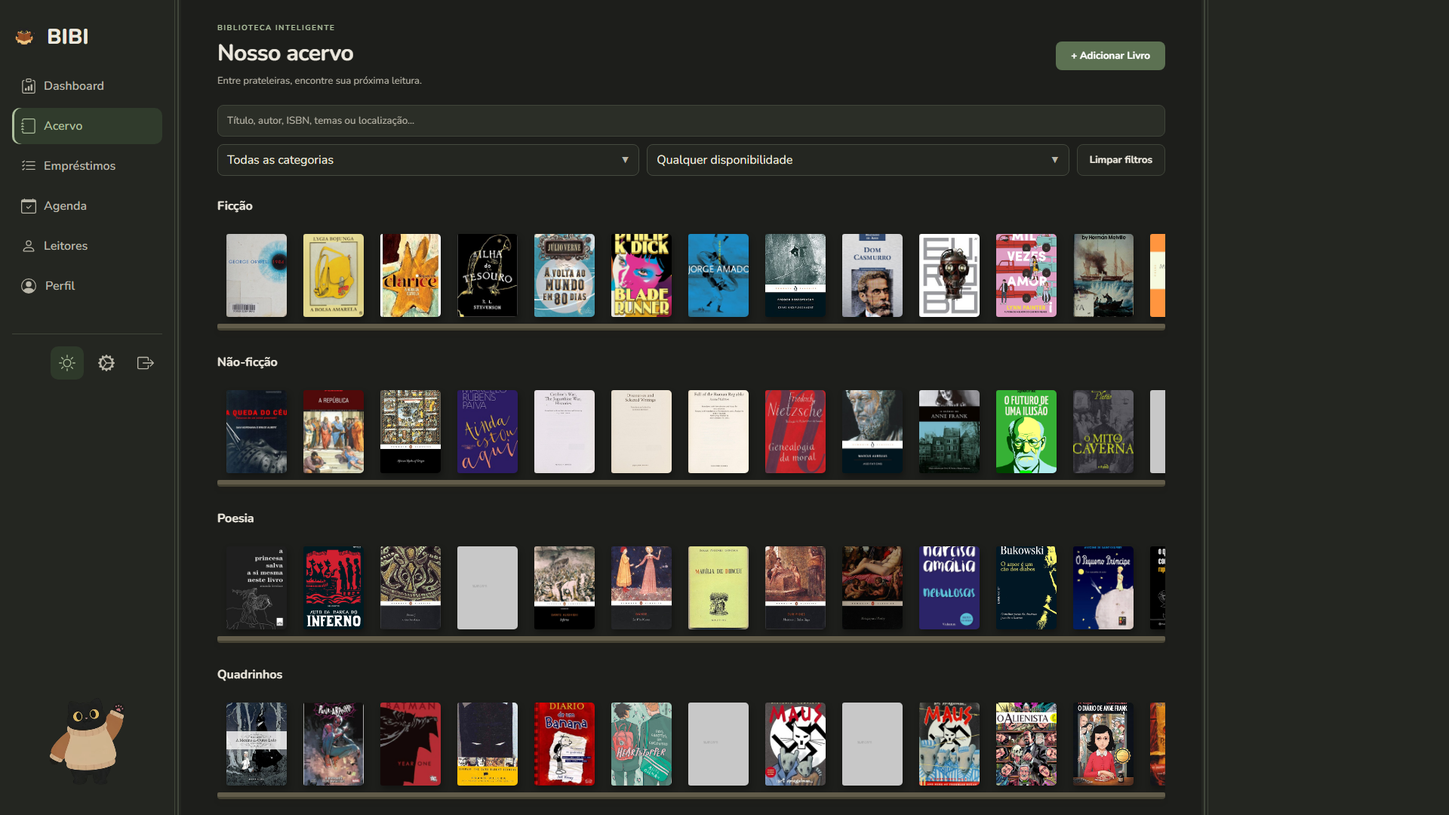
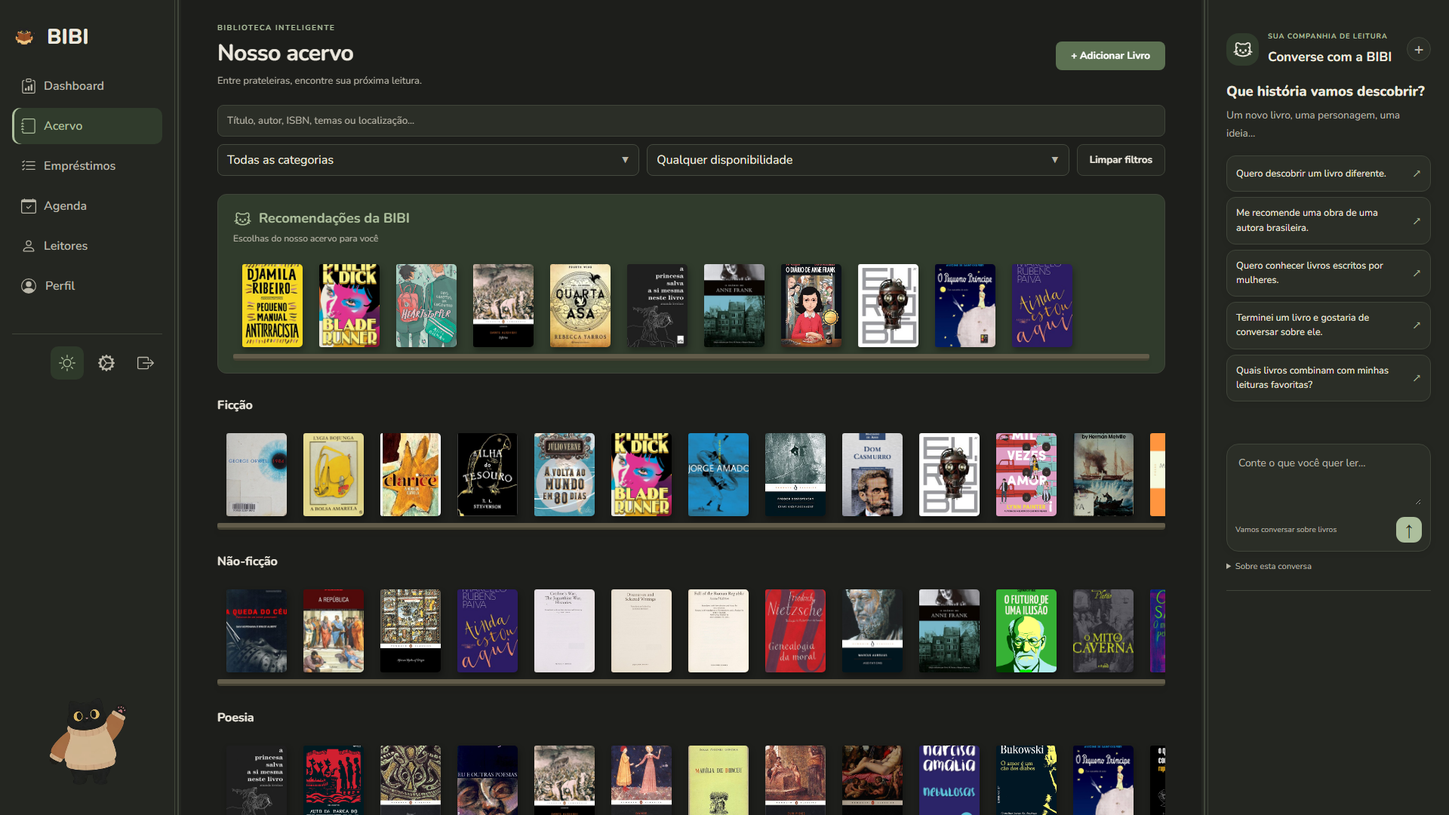
Completa capas e demonstra IA real na distribuicao 1.1.1

diff --git a/tests/browser_distribuicao.py b/tests/browser_distribuicao.py
@@ -26,6 +26,7 @@ from playwright.sync_api import sync_playwright, expect
 
 
 def main():
+    expect.set_options(timeout=60000)
     if os.getenv('BIBI_BROWSER_TRACE'):
         import faulthandler
         faulthandler.dump_traceback_later(45,repeat=True)
@@ -61,6 +62,13 @@ def main():
         api(admin,'/api/acesso/csrf')
         api(admin,'/api/acesso/configurar','POST',dict(biblioteca='Biblioteca de demonstração',nome='Bibliotecária de demonstração',email='admin@example.test',senha='senha forte de teste',confirmacao='senha forte de teste',aceite=True,termos_versao=VERSAO))
         api(admin,'/api/minha-conta/avatar','PUT',default())
+        real_ai=bool(os.getenv('BIBI_SCREENSHOT_OPENROUTER_KEY'))
+        if real_ai:
+            api(admin,'/api/ia/servicos/openrouter','PUT',dict(chave=os.environ['BIBI_SCREENSHOT_OPENROUTER_KEY'],senha_atual='senha forte de teste',habilitado=True,custos_autorizados=False,privacidade_revisada=True,limite_diario=30))
+            api(admin,'/api/ia/servicos/openrouter/modelos','POST',{})
+            result=api(admin,'/api/ia/servicos/openrouter/testar','POST',{})
+            print('Verificação real OpenRouter:',result,flush=True)
+            api(admin,'/api/ia/servicos','PUT',dict(ativa=True,senha_atual='senha forte de teste',max_tokens=384,por_dia=30))
         books=api(admin,'/api/livros')
         readers=[]
         for i in range(8):
@@ -110,6 +118,8 @@ def main():
                     return page
                 a=page_for(admin);s=page_for(student)
                 def capture(page,path):
+                    page.wait_for_function("Array.from(document.querySelectorAll('.book,.capa-mini,#det-capa')).filter(element=>element.getClientRects().length).every(element=>!getComputedStyle(element).backgroundImage.includes('placeholder'))",timeout=90000)
+                    page.wait_for_function("Array.from(document.images).filter(image=>image.getClientRects().length).every(image=>image.complete&&image.naturalWidth>0)",timeout=90000)
                     # Captura nativa do Chromium via Playwright/CDP. Evita o
                     # bloqueio de screenshot causado por páginas com mídia ativa.
                     session=page.context.new_cdp_session(page)
@@ -127,7 +137,7 @@ def main():
                     if path.startswith('/app') and '#' not in path:
                         page.wait_for_timeout(6000 if args.catalogo_local else 2500)
                     if path.startswith('/app') and '#' not in path:
-                        page.wait_for_function("limit=>Array.from(document.querySelectorAll('.book')).filter(book=>getComputedStyle(book).backgroundImage.includes('placeholder')).length<=limit",arg=7 if args.catalogo_local else 0,timeout=90000)
+                        page.wait_for_function("Array.from(document.querySelectorAll('.book')).every(book=>!getComputedStyle(book).backgroundImage.includes('placeholder'))",timeout=90000)
                     page.wait_for_timeout(1200)
                     assert page.evaluate('document.documentElement.scrollWidth<=innerWidth'),name
                     capture(page,screens/(name+'.png'))
@@ -148,11 +158,21 @@ def main():
                 s.locator('.book-review-form').scroll_into_view_if_needed();capture(s,screens/'avaliacoes.png')
                 a.goto(base+'/configuracoes');a.locator('[data-settings-section="gestao-config"]').click();a.wait_for_timeout(1000);capture(a,screens/'configuracoes.png')
                 a.locator('[data-settings-section="inteligencia-artificial"]').click();a.wait_for_timeout(500);capture(a,screens/'ia-opcional.png')
+                if real_ai:
+                    s.goto(base+'/app');expect(s.locator('#bibi-input')).to_be_visible()
+                    s.locator('#bibi-input').fill('Em até 40 palavras, recomende uma obra de autora brasileira deste acervo para começar a ler. Responda em português brasileiro, sem formatação.')
+                    s.locator('#bibi-send').click()
+                    expect(s.locator('.bibi-answer').last).not_to_be_empty(timeout=180000)
+                    s.wait_for_function("!document.querySelector('#bibi-send').disabled",timeout=180000)
+                    expect(s.locator('#bibi-status')).to_have_text('Resposta concluída. Confira os dados do acervo.')
+                    s.locator('#bibi-messages').evaluate('(element)=>element.scrollTop=0')
+                    s.wait_for_timeout(1000);capture(s,screens/'ia-conversa.png')
+                    print('Conversa real capturada:',s.locator('.bibi-answer').last.inner_text(),flush=True)
                 s.goto(base+'/perfil');expect(s.locator('#profile-favorites article').first).to_be_visible();s.locator('#theme-toggle-btn').click();s.set_viewport_size({'width':390,'height':844});s.wait_for_timeout(700);capture(s,screens/'perfil-mobile-escuro.png')
                 a.goto(base+'/app');expect(a.locator('.book').first).to_be_visible();a.locator('#theme-toggle-btn').click();a.wait_for_timeout(6000);capture(a,screens/'acervo-escuro.png')
                 assert not errors,errors
                 browser.close()
-            Path('docs/validacao/distribuicao-interface.json').write_text(json.dumps({'resultado':'aprovado','capturas':13,'catalogo':f'{len(books)} obras da instalação local; contas e circulação sintéticas' if args.catalogo_local else '32 obras fictícias; capas tipográficas próprias','resolucoes':['1920x1080','390x844'],'temas':['claro','escuro'],'ia':'Interface real, desativada; nenhuma resposta simulada ou serviço externo','erros_js':errors},ensure_ascii=False,indent=2),encoding='utf-8')
+            Path('docs/validacao/distribuicao-interface.json').write_text(json.dumps({'resultado':'aprovado','capturas':14 if real_ai else 13,'catalogo':f'{len(books)} obras da instalação local; contas e circulação sintéticas' if args.catalogo_local else '32 obras fictícias; capas tipográficas próprias','resolucoes':['1920x1080','390x844'],'temas':['claro','escuro'],'ia':'OpenRouter real; verificação e conversa geradas por modelo gratuito, sem simulação' if real_ai else 'Interface real, desativada; nenhuma resposta simulada ou serviço externo','erros_js':errors},ensure_ascii=False,indent=2),encoding='utf-8')
         finally:
             stop_process_tree(server)
 

diff --git a/tools/github_distribuicao.py b/tools/github_distribuicao.py
@@ -7,6 +7,9 @@ import json
 from pathlib import Path
 import subprocess
 import requests
+import sys
+sys.path.insert(0,str(Path(__file__).resolve().parents[1]))
+from version import VERSION
 
 
 REPO='CaesarKairos/BIBI-Biblioteca-Inteligente'
@@ -14,7 +17,8 @@ REPO='CaesarKairos/BIBI-Biblioteca-Inteligente'
 
 def main():
     parser=argparse.ArgumentParser()
-    parser.add_argument('--version',default='1.1.0')
+    parser.add_argument('--version',default=VERSION)
+    parser.add_argument('--draft-id',type=int,help='Atualiza um rascunho existente, preservando a release e as tags anteriores.')
     parser.add_argument('--notes',type=Path)
     parser.add_argument('--asset',type=Path,action='append',default=[])
     parser.add_argument('--inspect',action='store_true')
@@ -40,10 +44,20 @@ def main():
     main=api('GET','/git/ref/heads/main')['object']['sha']
     if commit!=main:raise RuntimeError('A tag precisa apontar diretamente para o commit final da main.')
     existing=[r for r in releases if r['tag_name']==tag]
+    if args.draft_id:
+        source=api('GET',f'/releases/{args.draft_id}')
+        if not source['draft']:raise RuntimeError('A release indicada já foi publicada; não será alterada.')
+        if existing and existing[0]['id']!=source['id']:raise RuntimeError('Já existe outro rascunho para essa versão.')
+        existing=[source]
     if len(existing)>1:raise RuntimeError('Há mais de uma release para a tag; revisão necessária.')
     if existing and not existing[0]['draft']:raise RuntimeError('A versão já foi publicada; não será alterada.')
     payload={'tag_name':tag,'target_commitish':main,'name':'BIBI — Biblioteca Inteligente '+args.version,'body':args.notes.read_text(encoding='utf-8-sig'),'draft':True,'prerelease':False}
     release=api('PATCH',f"/releases/{existing[0]['id']}",json=payload) if existing else api('POST','/releases',json=payload)
+    if args.draft_id:
+        incoming={path.name for path in args.asset}
+        for asset in release.get('assets',[]):
+            if asset['name'].startswith('BIBI-') and asset['name'] not in incoming:
+                api('DELETE',f"/releases/assets/{asset['id']}")
     for path in args.asset:
         if not path.is_file():raise RuntimeError('Artefato ausente: '+str(path))
         # Só troca um asset no rascunho autorizado da mesma versão.

diff --git a/tests/browser_capas_distribuicao.py b/tests/browser_capas_distribuicao.py
@@ -63,9 +63,9 @@ def main():
                 for bid in (rows[0][0],44,53):
                     page.goto(base+f'/app?livro={bid}')
                     page.locator('#det-titulo').wait_for()
-                    page.wait_for_function("getComputedStyle(document.querySelector('#det-capa')).backgroundImage!=='none'")
+                    page.wait_for_function("!getComputedStyle(document.querySelector('#det-capa')).backgroundImage.includes('placeholder')&&getComputedStyle(document.querySelector('#det-capa')).backgroundImage!=='none'")
                 browser.close()
-            report={'banco':'temporário; somente campos bibliográficos e arquivos de capas; conta sintética', 'total':len(rows),'renderizadas':sum(r['estado']=='renderizada' for r in results),'pendencias':[r for r in results if r['estado']!='renderizada'],'detalhes':'Primeira obra, ID 44 e ID 53: fundo de capa/placeholder presente.'}
+            report={'banco':'temporário; somente campos bibliográficos e arquivos de capas; conta sintética', 'total':len(rows),'renderizadas':sum(r['estado']=='renderizada' for r in results),'pendencias':[r for r in results if r['estado']!='renderizada'],'detalhes':'Primeira obra, ID 44 e ID 53: capas renderizadas sem placeholder.'}
             Path('docs/validacao/capas-navegador.json').write_text(json.dumps(report,ensure_ascii=False,indent=2),encoding='utf-8')
             print(json.dumps(report,ensure_ascii=False),flush=True)
         finally:

diff --git a/tests/test_ai_routing.py b/tests/test_ai_routing.py
@@ -12,6 +12,15 @@ def models(*args):
 
 
 class RoutingTests(AppTest):
+    def test_verified_service_stays_active_after_restart_without_legacy_proofs(self):
+        from app import create_app
+        self.connect();self.activate()
+        self.assertFalse(self.sql("SELECT 1 FROM Configuracoes WHERE chave='ia_validacoes'"))
+        restarted=create_app({'TESTING':True,'DATA_DIR':str(self.directory)})
+        with restarted.app_context():
+            self.assertTrue(rt.config()['ativa'])
+            self.assertTrue(rt.availability()['disponivel'])
+
     def test_insights_cache_survives_health_and_latency_updates(self):
         self.connect();self.activate()
         with patch.object(Provider,'stream',side_effect=lambda *args:(text for text in ['Ação baseada nos agregados'])) as stream:

diff --git a/app.py b/app.py
@@ -57,7 +57,8 @@ def create_app(test_config=None):
         # e ativação explícitos. Nenhuma chave salva é tratada como prova de conexão.
         legacy_ai=conn.execute("SELECT valor FROM Configuracoes WHERE chave='ia'").fetchone()
         proofs=conn.execute("SELECT 1 FROM Configuracoes WHERE chave='ia_validacoes'").fetchone()
-        if legacy_ai and not proofs:
+        service_registry=conn.execute("SELECT 1 FROM Configuracoes WHERE chave='ia_servicos_v1'").fetchone()
+        if legacy_ai and not proofs and not service_registry:
             settings=json.loads(legacy_ai[0])
             if settings.get('ativa'):
                 settings['ativa']=False

diff --git a/version.py b/version.py
@@ -1,2 +1,2 @@
 """Versão pública compartilhada pela interface e pelos backups."""
-VERSION = '1.1.0'
+VERSION = '1.1.1'

diff --git a/docs/CAPAS_DISTRIBUICAO.md b/docs/CAPAS_DISTRIBUICAO.md
@@ -1,47 +1,46 @@
-# Capas do acervo — 22/10/2026
+# Capas do acervo — 23/10/2026
 
-A instalação acessada por `app.py` possui 76 títulos. A auditoria verificou arquivos, respostas HTTP, decodificação das imagens e carregamento em Chromium. Antes da correção, 54 capas renderizavam; 20 registros não tinham referência e duas URLs retornavam uma imagem de 1×1 pixel com HTTP 200.
+A instalação utilizada por `app.py` possui 76 obras. A auditoria verificou arquivos, respostas HTTP, dimensões, decodificação e renderização em Chromium. Inicialmente, 54 capas funcionavam: 20 registros não tinham referência e duas URLs devolviam uma imagem de 1×1 pixel, apesar do HTTP 200.
 
 ## Correções aplicadas
 
-Foram atualizadas 15 referências no banco local, após backup SQLite consistente. Nenhuma capa existente e válida foi substituída. As imagens são exibidas por URLs da Open Library, conforme suas [orientações para uso de capas](https://openlibrary.org/dev/docs/api/covers). Não foram incluídos arquivos de capa no repositório ou nos instaladores.
+As 22 referências foram corrigidas no banco local após backups SQLite consistentes. Nenhuma capa válida foi substituída. As imagens são exibidas remotamente: Open Library, conforme suas [orientações de uso](https://openlibrary.org/dev/docs/api/covers), e o [serviço oficial de imagens por ISBN da Penguin Random House](https://developer.penguinrandomhouse.com/docs/read/enhanced_prh_api/concepts/Images). Os arquivos originais das capas não acompanham o repositório ou os instaladores.
 
-A pesquisa por ISBN não encontrou vários registros de quadrinhos. Nesses casos, a identificação foi feita pela obra, autoria e volume, com revisão visual. A correspondência com a edição física ainda precisa ser confirmada pela biblioteca; os ISBNs cadastrados não foram alterados. Para os títulos sem ISBN, foram priorizadas capas em português e registradas as edições consultadas.
-
-| Título | Fonte bibliográfica | Referência da imagem |
+| Título | Fonte bibliográfica | Imagem |
 | --- | --- | --- |
-| Watchmen | [Open Library](https://openlibrary.org/works/OL2897798W) | [Capa](https://covers.openlibrary.org/b/id/7774899-L.jpg?default=false) |
-| V de Vinganca | [Open Library](https://openlibrary.org/books/OL44707955M) | [Capa](https://covers.openlibrary.org/b/id/13110427-L.jpg?default=false) |
-| Batman: Ano Um | [Open Library](https://openlibrary.org/works/OL15016298W) | [Capa](https://covers.openlibrary.org/b/id/6462744-L.jpg?default=false) |
-| Sandman Vol. 1 | [Open Library](https://openlibrary.org/works/OL9200964W) | [Capa](https://covers.openlibrary.org/b/id/7508162-L.jpg?default=false) |
-| Sandman Vol. 2 | [Open Library](https://openlibrary.org/works/OL15449786W) | [Capa](https://covers.openlibrary.org/b/id/14416396-L.jpg?default=false) |
-| Batman: Cavaleiro das Trevas | [Open Library](https://openlibrary.org/works/OL3577222W) | [Capa](https://covers.openlibrary.org/b/id/798170-L.jpg?default=false) |
-| Maus Volume 2 | [Open Library](https://openlibrary.org/works/OL2056808W) | [Capa](https://covers.openlibrary.org/b/id/12606590-L.jpg?default=false) |
-| A Hora da Estrela | [Open Library](https://openlibrary.org/books/OL62501777M) | [Capa](https://covers.openlibrary.org/b/id/15249744-L.jpg?default=false) |
-| O Alienista | [Open Library](https://openlibrary.org/books/OL61352956M) | [Capa](https://covers.openlibrary.org/b/id/15171781-L.jpg?default=false) |
-| Capitães da Areia | [Open Library](https://openlibrary.org/books/OL62256210M) | [Capa](https://covers.openlibrary.org/b/id/15236135-L.jpg?default=false) |
-| Vidas Secas | [Open Library](https://openlibrary.org/books/OL35663964M) | [Capa](https://covers.openlibrary.org/b/id/12369687-L.jpg?default=false) |
-| A Ilha do Tesouro | [Open Library](https://openlibrary.org/books/OL27826858M) | [Capa](https://covers.openlibrary.org/b/id/9221290-L.jpg?default=false) |
-| A Volta ao Mundo em Oitenta Dias | [Open Library](https://openlibrary.org/works/OL30822201W) | [Capa](https://covers.openlibrary.org/b/id/13689116-L.jpg?default=false) |
-| Quarto de Despejo | [Open Library](https://openlibrary.org/books/OL38221997M) | [Capa](https://covers.openlibrary.org/b/id/12769759-L.jpg?default=false) |
-| Marília de Dirceu | [Open Library](https://openlibrary.org/books/OL16737554M) | [Capa](https://covers.openlibrary.org/b/id/7246712-L.jpg?default=false) |
+| Watchmen | [Registro](https://openlibrary.org/works/OL2897798W) | [Capa](https://covers.openlibrary.org/b/id/7774899-L.jpg?default=false) |
+| V de Vinganca | [Registro](https://openlibrary.org/books/OL44707955M) | [Capa](https://covers.openlibrary.org/b/id/13110427-L.jpg?default=false) |
+| Batman: Ano Um | [Registro](https://openlibrary.org/works/OL15016298W) | [Capa](https://covers.openlibrary.org/b/id/6462744-L.jpg?default=false) |
+| Sandman Vol. 1 | [Registro](https://openlibrary.org/works/OL9200964W) | [Capa](https://covers.openlibrary.org/b/id/7508162-L.jpg?default=false) |
+| Sandman Vol. 2 | [Registro](https://openlibrary.org/works/OL15449786W) | [Capa](https://covers.openlibrary.org/b/id/14416396-L.jpg?default=false) |
+| Batman: Cavaleiro das Trevas | [Registro](https://openlibrary.org/works/OL3577222W) | [Capa](https://covers.openlibrary.org/b/id/798170-L.jpg?default=false) |
+| Maus Volume 2 | [Registro](https://openlibrary.org/works/OL2056808W) | [Capa](https://covers.openlibrary.org/b/id/12606590-L.jpg?default=false) |
+| A Hora da Estrela | [Registro](https://openlibrary.org/books/OL62501777M) | [Capa](https://covers.openlibrary.org/b/id/15249744-L.jpg?default=false) |
+| O Alienista | [Registro](https://openlibrary.org/books/OL61352956M) | [Capa](https://covers.openlibrary.org/b/id/15171781-L.jpg?default=false) |
+| Capitães da Areia | [Registro](https://openlibrary.org/books/OL62256210M) | [Capa](https://covers.openlibrary.org/b/id/15236135-L.jpg?default=false) |
+| Vidas Secas | [Registro](https://openlibrary.org/books/OL35663964M) | [Capa](https://covers.openlibrary.org/b/id/12369687-L.jpg?default=false) |
+| A Ilha do Tesouro | [Registro](https://openlibrary.org/books/OL27826858M) | [Capa](https://covers.openlibrary.org/b/id/9221290-L.jpg?default=false) |
+| A Volta ao Mundo em Oitenta Dias | [Registro](https://openlibrary.org/works/OL30822201W) | [Capa](https://covers.openlibrary.org/b/id/13689116-L.jpg?default=false) |
+| Quarto de Despejo | [Registro](https://openlibrary.org/books/OL38221997M) | [Capa](https://covers.openlibrary.org/b/id/12769759-L.jpg?default=false) |
+| Marília de Dirceu | [Registro](https://openlibrary.org/books/OL16737554M) | [Capa](https://covers.openlibrary.org/b/id/7246712-L.jpg?default=false) |
+| The Age of Alexander (Penguin Classics) | [Registro](https://www.penguin.com.au/books/the-age-of-alexander-9780140449358) | [Capa](https://images.penguinrandomhouse.com/cover/9780140449358) |
+| The Dhammapada | [Registro](https://www.penguinrandomhouse.com/books/673323/the-dhammapada-by-anonymous-translated-with-an-introduction-and-notes-by-valerie-roebuck/) | [Capa](https://images.penguinrandomhouse.com/cover/9780140449419) |
+| Maus | [Registro](https://openlibrary.org/books/OL9158739M) | [Capa](https://covers.openlibrary.org/b/id/9248756-L.jpg?default=false) |
+| Uma Breve História do Tempo | [Registro](https://openlibrary.org/books/OL60470590M) | [Capa](https://covers.openlibrary.org/b/id/15131920-L.jpg?default=false) |
+| O Mundo Assombrado pelos Demônios | [Registro](https://openlibrary.org/books/OL30698416M) | [Capa](https://covers.openlibrary.org/b/id/10492588-L.jpg?default=false) |
+| Eu | [Registro](https://openlibrary.org/works/OL34307295W) | [Capa](https://covers.openlibrary.org/b/id/13158150-L.jpg?default=false) |
+| Laços | [Registro](https://openlibrary.org/books/OL32179904M) | [Capa](https://covers.openlibrary.org/b/id/10836214-L.jpg?default=false) |
 
-## Pendências
+## Edições e pendências
 
-| Título | Motivo |
-| --- | --- |
-| The Age of Alexander (Penguin Classics) | Open Library retorna 1×1 pixel; edição encontrada na Penguin, mas sem autorização específica confirmada para este uso. |
-| The Dhammapada | Open Library retorna 1×1 pixel; edição encontrada na Penguin, mas sem autorização específica confirmada para este uso. |
-| Maus | ISBN não localizado; título genérico não esclarece se o exemplar é o volume I ou a edição integral. |
-| Uma Breve História do Tempo | Sem ISBN/edição; não foi encontrada capa em português identificada com segurança na fonte consultada. |
-| O Mundo Assombrado pelos Demônios | Sem ISBN/edição; encontrada obra original em inglês, sem edição em português confirmada. |
-| Eu | Resultados encontrados para Eu e outras poesias; composição/edição do exemplar não confirmada. |
-| Laços | Sem ISBN/edição; não foi localizada uma correspondência bibliográfica segura nas fontes consultadas. |
+Nenhuma das 76 obras permanece sem uma capa renderizável. A identidade da obra e a autoria foram conferidas; isso não comprova a edição física quando o cadastro não informa ISBN ou o ISBN não foi localizado. Esses casos permanecem sinalizados no [relatório por título](validacao/capas-corrigidas.json), sem alterar ISBNs nem mesclar livros.
 
-Google Books respondeu HTTP 429 durante a busca por ISBN. Resultados com título semelhante, autoria diferente ou outro volume foram descartados. Fontes editoriais encontradas: [The Age of Alexander](https://www.penguin.com.au/books/the-age-of-alexander-9780140449358) e [The Dhammapada](https://www.penguinrandomhouse.com/books/673323/the-dhammapada-by-anonymous-translated-with-an-introduction-and-notes-by-valerie-roebuck/).
+As duas capas Penguin correspondem exatamente aos ISBNs cadastrados. Para Maus foi identificada a história completa em português; o ISBN local não foi encontrado e a edição física precisa ser conferida. Uma Breve História do Tempo e O Mundo Assombrado pelos Demônios usam referências de edições em português das editoras Intrínseca e Companhia das Letras. Eu usa a edição Eu e outras poesias (L&PM), título também documentado na biblioteca digital da UFSC. Laços corresponde à obra de Vitor e Lu Cafaggi, edição Panini.
+
+Google Books respondeu HTTP 429 durante a pesquisa. Resultados de outra autoria ou volume foram descartados. A bibliografia complementar está no relatório estruturado.
 
 ## Persistência e validação
 
-As referências foram gravadas no SQLite da instalação, com comparação do valor anterior para preservar alterações concorrentes. O backup anterior permanece na pasta local `backups`; o nome está no [relatório estruturado](validacao/capas-corrigidas.json). Uma nova aplicação com cópia apenas dos campos bibliográficos e arquivos de capa foi aberta em Chromium após a gravação: **69 imagens renderizadas e sete pendências**. Isso verifica a leitura persistida por uma nova instância sem reiniciar nem interromper a BIBI aberta pelo usuário.
+As referências foram persistidas no SQLite, preservando os valores anteriores em backups locais cujos nomes constam no relatório. Uma nova instância isolada leu os campos bibliográficos e os arquivos de capa após a gravação: **76 de 76 capas renderizadas**, sem placeholders. O teste verificou também os detalhes dos livros e as dimensões no navegador; [resultado](validacao/capas-navegador.json).
 
-O tratamento visual do acervo e dos detalhes agora mantém o placeholder quando a imagem não carrega ou tem dimensões de placeholder remoto. As URLs externas continuam dependendo de internet e da disponibilidade da fonte. Nenhum banco, leitor ou segredo da instalação foi publicado.
+A BIBI aberta pelo usuário não foi interrompida. As capturas foram refeitas a partir deste catálogo em uma instalação temporária com contas demonstrativas, sem copiar leitores ou configurações particulares. Imagens externas dependem da internet e da disponibilidade da fonte. Não foram publicados bancos privados, dados pessoais ou arquivos originais de capas.

diff --git a/docs/DISTRIBUICAO.md b/docs/DISTRIBUICAO.md
@@ -1,4 +1,4 @@
-# Preparação da distribuição 1.1.0
+# Preparação da distribuição 1.1.1
 
 Validação realizada em Windows x64, em 22 e 23/10/2026. Este documento separa a preparação dos arquivos da homologação em uma instalação limpa do Windows.
 
@@ -6,34 +6,36 @@ Validação realizada em Windows x64, em 22 e 23/10/2026. Este documento separa 
 
 | Verificação | Resultado |
 | --- | --- |
-| `unittest discover -s tests -v` | 116 testes aprovados; [registro](validacao/distribuicao-unittest-release.txt). |
+| `unittest discover -s tests -v` | 117 testes aprovados; [registro](validacao/distribuicao-unittest-release.txt). |
 | Playwright de IA (`tests/browser_ia.py`) | Aprovado: ativação, seleção automática, chat isolado, troca e remoção de serviços, desligamento e 13 seções de configurações, em três larguras e nos dois temas; [registro](validacao/distribuicao-ia-final.txt). Provedores simulados, sem consumo de API. |
-| Catálogo local e capas em Chromium | 76 títulos examinados; 69 capas renderizadas e sete pendências; [resultado](validacao/capas-navegador.json) e [fontes](CAPAS_DISTRIBUICAO.md). |
-| Executável Windows | Aprovado em dados descartáveis: primeiro cadastro, avatar, 32 livros/32 capas próprias, assets, navegação Chromium, HTTPS com certificado validado, migrações, integridade, reinício, login e persistência; [registro](validacao/distribuicao-executavel-final-aprovado.txt). |
+| Catálogo local e capas em Chromium | 76 títulos examinados; 76 capas renderizadas e nenhuma referência ausente; [resultado](validacao/capas-navegador.json) e [fontes](CAPAS_DISTRIBUICAO.md). |
+| Executável Windows | Aprovado em dados descartáveis: primeiro cadastro, avatar, 32 livros/32 capas próprias, assets, navegação Chromium, HTTPS com certificado validado, migrações, integridade, reinício, login e persistência; [registro](validacao/distribuicao-exe-final.txt). |
 | PyInstaller | Build nativo Windows, PE x64, distribuição onedir completa. Inclui templates, arquivos estáticos, migrações, dependências nativas e schemas do avatar. |
 | Inno Setup | Compilado; instalação e desinstalação ainda não homologadas. Não anexar o instalador ao rascunho enquanto essa etapa não for validada. |
 | Janela nativa do executável | Aprovada: janela e conteúdo real da tela inicial confirmados por Windows UI Automation; [resultado](validacao/distribuicao-janela-exe.json). |
 | Bandeja e seus controles | Teste separado `desktop_tray_check.py` não concluído: inicialização WebView2 retornou E_ABORT no roteiro com janela oculta. Não declarar homologação desses controles. |
 | Windows limpo | Não testado. Há uma BIBI 1.0.0 instalada neste computador, preservada durante o trabalho. |
-| SMTP e IA reais / outro dispositivo da rede | Não homologados nesta entrega. |
+| OpenRouter real | Conexão, geração e conversa literária verificadas com modelo gratuito; capturas sem simulação. |
+| SMTP real / outro dispositivo da rede | Não homologados nesta entrega. |
 
-As capturas atuais estão em [docs/readme](readme/README.md). O roteiro usa o catálogo local, com contas e circulação sintéticas em outra pasta de dados. A IA aparece somente em sua interface real de configuração, desativada.
+As capturas atuais estão em [docs/readme](readme/README.md). O roteiro usa o catálogo local, com contas e circulação sintéticas em outra pasta de dados. A IA aparece ativada e em conversa real via OpenRouter, sem respostas simuladas; a credencial foi fornecida apenas no ambiente de execução e armazenada localmente com DPAPI.
 
 ## Correções relevantes
 
 - O pacote anterior não incluía `dicebear_schema`, lido dinamicamente pelo editor de avatar. O cadastro inicial funcionava, mas o avatar retornava erro 500. O spec agora inclui os schemas, e o teste do executável exige completar o avatar e navegar pela interface.
 - O build usa apenas arquivos estáticos versionados. Uploads locais não são incorporados por uma cópia indiscriminada da pasta `static`.
-- O acervo e os detalhes preservam o placeholder quando uma capa falha ou retorna uma imagem remota de 1×1 pixel. Quinze referências ausentes foram corrigidas no banco local, com backup e fontes registradas.
+- O acervo e os detalhes preservam o placeholder quando uma capa falha ou retorna uma imagem remota de 1×1 pixel. Vinte e duas referências ausentes foram corrigidas no banco local, com backup e fontes registradas.
 - As prévias do editor de avatar são solicitadas quando as opções entram na área visível. O servidor reutiliza renderizações em memória.
 - A versão da interface e dos backups é compartilhada em `version.py`.
+- A inicialização preserva a ativação do registro atual de serviços de IA verificados. Uma checagem destinada ao fluxo legado estava desativando o novo registro no reinício; um teste de regressão cobre esse cenário.
 - Erros de execução podem ser consultados em `BIBI.log`, na pasta persistente da instalação, com rotação de tamanho. O registro não inclui corpos de pedidos ou credenciais.
 - Portas opcionais de execução permitem testar outra instalação sem ocupar as portas da BIBI do usuário. Os padrões continuam 5000 em loopback e 5443 no HTTPS da rede.
 
 ## Arquivos de distribuição
 
-- `dist/release/BIBI-1.1.0-Windows-x64-Portatil.zip`: pasta completa, incluindo `BIBI.exe` e `_internal`.
+- `dist/release/BIBI-1.1.1-Windows-x64-Portatil.zip`: pasta completa, incluindo `BIBI.exe` e `_internal`.
 - `dist/release/SHA256SUMS.txt`: integridade do ZIP anexável ao rascunho.
-- `dist/release/BIBI-1.1.0-Windows-x64-Setup.exe`: instalador compilado, preservado localmente enquanto aguarda homologação.
+- `dist/release/BIBI-1.1.1-Windows-x64-Setup.exe`: instalador compilado, preservado localmente enquanto aguarda homologação.
 
 O ZIP também foi extraído em outra pasta descartável e o executável extraído passou pelo mesmo fluxo completo; [registro](validacao/distribuicao-zip-executado.txt).
 
@@ -50,11 +52,11 @@ python -m venv .venv
 .\.venv\Scripts\python.exe -m unittest discover -s tests -v
 .\.venv\Scripts\python.exe tests/browser_ia.py
 .\.venv\Scripts\python.exe tests/browser_distribuicao.py --catalogo-local "$env:LOCALAPPDATA\BIBI"
-.\.venv\Scripts\python.exe -m PyInstaller --noconfirm --distpath dist/Windows-1.1.0 packaging/BIBI.spec
+.\.venv\Scripts\python.exe -m PyInstaller --noconfirm --distpath dist/Windows-1.1.1 packaging/BIBI.spec
 .\.venv\Scripts\python.exe tools/catalogo_distribuicao.py "$env:TEMP\bibi-distribuicao-demo.zip"
-.\.venv\Scripts\python.exe tests/smoke_executavel.py --exe dist/Windows-1.1.0/BIBI/BIBI.exe --zip "$env:TEMP\bibi-distribuicao-demo.zip"
-.\.venv\Scripts\python.exe tests/smoke_janela_executavel.py --exe dist/Windows-1.1.0/BIBI/BIBI.exe
-.\.venv\Scripts\python.exe tools/pacote_windows.py --build dist/Windows-1.1.0/BIBI
+.\.venv\Scripts\python.exe tests/smoke_executavel.py --exe dist/Windows-1.1.1/BIBI/BIBI.exe --zip "$env:TEMP\bibi-distribuicao-demo.zip"
+.\.venv\Scripts\python.exe tests/smoke_janela_executavel.py --exe dist/Windows-1.1.1/BIBI/BIBI.exe
+.\.venv\Scripts\python.exe tools/pacote_windows.py --build dist/Windows-1.1.1/BIBI
 & "$env:LOCALAPPDATA\Programs\Inno Setup 6\ISCC.exe" setup.iss.example
 ```
 
@@ -68,4 +70,4 @@ Usuários comuns devem seguir a instalação descrita no [README](../README.md).
 
 A auditoria do catálogo usa somente os campos bibliográficos, sem abrir contas, leitores ou configurações privadas. As credenciais fornecidas durante o atendimento foram utilizadas apenas na autenticação da aplicação em execução e não foram gravadas nos scripts, nas capturas, no Git ou nos pacotes.
 
-O [guia de operação](GUIA_OPERACAO.md) descreve backup e restauração. O [guia de rede](REDE_LOCAL.md) descreve HTTPS, dispositivos autorizados e certificados. As [notas da versão](NOTAS_VERSAO_1.1.0.md) estão preparadas para a release em rascunho. A tag deve apontar para o commit final da `main`; o rascunho não deve ser publicado automaticamente.
+O [guia de operação](GUIA_OPERACAO.md) descreve backup e restauração. O [guia de rede](REDE_LOCAL.md) descreve HTTPS, dispositivos autorizados e certificados. As [notas da versão](NOTAS_VERSAO_1.1.1.md) estão preparadas para a release em rascunho. A tag deve apontar para o commit final da `main`; o rascunho não deve ser publicado automaticamente.

diff --git a/docs/NOTAS_VERSAO_1.1.1.md b/docs/NOTAS_VERSAO_1.1.1.md
@@ -1,4 +1,4 @@
-# BIBI — Biblioteca Inteligente 1.1.0
+# BIBI — Biblioteca Inteligente 1.1.1
 
 Esta versão reúne gestão da biblioteca escolar, circulação de livros e experiência individual de leitura. A release deve permanecer **em rascunho** até a revisão final pelos responsáveis pelo projeto.
 
@@ -13,7 +13,7 @@ Esta versão reúne gestão da biblioteca escolar, circulação de livros e expe
 
 ## Instalação
 
-Baixe `BIBI-1.1.0-Windows-x64-Portatil.zip`, extraia a pasta completa e abra `BIBI.exe`. Mantenha `_internal` ao lado do executável. Os arquivos Source code não são a distribuição para uso comum.
+Baixe `BIBI-1.1.1-Windows-x64-Portatil.zip`, extraia a pasta completa e abra `BIBI.exe`. Mantenha `_internal` ao lado do executável. Os arquivos Source code não são a distribuição para uso comum.
 
 Requisitos: Windows 10/11 de 64 bits e Microsoft Edge WebView2. Python e ferramentas de desenvolvimento não são necessários. Na primeira abertura, cadastre a instituição e crie a conta administrativa. Os dados ficam em `%LOCALAPPDATA%\BIBI`, separados dos arquivos do programa. Antes de atualizar uma instalação, use o backup da BIBI.
 
@@ -29,13 +29,13 @@ O bibliotecário configura os serviços externos, verifica a conexão e autoriza
 
 ## Validação e limites conhecidos
 
-O pacote foi compilado no Windows com PyInstaller. Foram testados primeiro cadastro, avatar, acervo, detalhes, perfil, configurações, HTTPS com a CA da instalação, integridade/migrações, reinício, login e persistência em dados descartáveis. A interface foi exercitada com Chromium; serviços de IA foram simulados nos testes, sem consumo externo. Consulte [o relatório de distribuição](https://github.com/CaesarKairos/BIBI-Biblioteca-Inteligente/blob/v1.1.0/docs/DISTRIBUICAO.md) no repositório.
+O pacote foi compilado no Windows com PyInstaller. Foram testados primeiro cadastro, avatar, acervo, detalhes, perfil, configurações, HTTPS com a CA da instalação, integridade/migrações, reinício, login e persistência em dados descartáveis. A interface foi exercitada com Chromium; os testes automatizados usam provedores simulados, complementados por verificação e conversa reais com OpenRouter gratuito para as capturas. Consulte [o relatório de distribuição](https://github.com/CaesarKairos/BIBI-Biblioteca-Inteligente/blob/v1.1.1/docs/DISTRIBUICAO.md) no repositório.
 
 - Não houve homologação em computador Windows limpo nem validação de instalação/desinstalação do instalador.
 - A janela nativa do executável e sua tela inicial foram confirmadas por Windows UI Automation. O roteiro separado de bandeja com janela oculta retornou E_ABORT; os controles de ocultar, reabrir e encerrar pela bandeja ainda precisam de homologação.
-- Capas externas dependem de internet e das fontes. Há sete capas pendentes no catálogo local auditado; esse catálogo não acompanha o programa.
+- Capas externas dependem de internet e das fontes. As 76 capas do catálogo local foram verificadas; esse catálogo não acompanha o programa.
 - Edição física de algumas capas corrigidas ainda precisa de conferência pela biblioteca. As fontes e os motivos estão no relatório de capas.
-- SMTP real, conectividade com provedores de IA reais e acesso em outro dispositivo da rede não foram homologados nesta entrega.
+- SMTP real e acesso em outro dispositivo da rede não foram homologados nesta entrega.
 - Os executáveis não receberam assinatura digital.
 
 ## Integridade, créditos e licença

diff --git a/docs/readme/README.md b/docs/readme/README.md
@@ -1,10 +1,10 @@
 # Imagens da BIBI
 
-Capturas de 22/10/2026, feitas com Playwright/Chromium, em 1920×1080 e 390×844. O catálogo é o da instalação utilizada por `app.py`: 76 títulos. As contas, os leitores, a agenda e a circulação das capturas foram preparados em uma instalação temporária, sem importar contas, senhas, configurações privadas ou históricos da escola.
+Capturas de 23/10/2026, feitas com Playwright/Chromium, em 1920×1080 e 390×844. O catálogo é o da instalação utilizada por `app.py`: 76 títulos. As contas, os leitores, a agenda e a circulação das capturas foram preparados em uma instalação temporária, sem importar contas, senhas, configurações privadas ou históricos da escola.
 
-As imagens mostram o sistema em funcionamento. Os arquivos originais de capas não são distribuídos no repositório ou nos pacotes; aparecem apenas como parte das telas. A interface de IA é real e está desativada, sem conversas ou respostas simuladas.
+As imagens mostram o sistema em funcionamento. Os arquivos originais de capas não são distribuídos no repositório ou nos pacotes; aparecem apenas como parte das telas. A IA está ativada com uma integração real do OpenRouter e somente modelos gratuitos autorizados. A conversa foi gerada pelo serviço externo, sem simulação. A chave permanece fora do repositório, dos relatórios e dos pacotes.
 
-A apresentação principal utiliza `acervo.png`, `dashboard.png`, `perfil-leitor.png`, `detalhes-livro.png`, `acervo-escuro.png` e `perfil-mobile-escuro.png`.
+A apresentação principal utiliza `acervo.png`, `dashboard.png`, `perfil-leitor.png`, `detalhes-livro.png`, `acervo-escuro.png`, `perfil-mobile-escuro.png` e `ia-conversa.png`.
 
 | Mais recursos | Visualização |
 | --- | --- |
@@ -14,9 +14,10 @@ A apresentação principal utiliza `acervo.png`, `dashboard.png`, `perfil-leitor
 | Listas pessoais | [Abrir captura](listas-pessoais.png) |
 | Avaliações e comentários | [Abrir captura](avaliacoes.png) |
 | Configurações da biblioteca | [Abrir captura](configuracoes.png) |
-| Configuração opcional de IA, desativada | [Abrir captura](ia-opcional.png) |
+| Configuração de IA, ativada e verificada | [Abrir captura](ia-opcional.png) |
+| Conversa literária com IA real | [Abrir captura](ia-conversa.png) |
 | Acervo em tema escuro | [Abrir captura](acervo-escuro.png) |
 
 [Relatório das capas e pendências](../CAPAS_DISTRIBUICAO.md) · [Validação e distribuição](../DISTRIBUICAO.md) · [Voltar à apresentação](../../README.md)
 
-Para reproduzir as capturas, a equipe de desenvolvimento pode executar `tests/browser_distribuicao.py --catalogo-local CAMINHO_DOS_DADOS`. A origem é aberta somente para leitura dos campos bibliográficos e cópia temporária das capas. SMTP e provedores de IA não são utilizados. Sem esse argumento, o roteiro utiliza um catálogo inteiramente fictício para testes.
+Para reproduzir as capturas, a equipe de desenvolvimento pode executar `tests/browser_distribuicao.py --catalogo-local CAMINHO_DOS_DADOS`. A origem é aberta somente para leitura dos campos bibliográficos e cópia temporária das capas. SMTP não é utilizado. A integração real exige fornecer temporariamente `BIBI_SCREENSHOT_OPENROUTER_KEY` no ambiente; isso faz chamadas externas e não deve ser usado em testes comuns. Sem a variável, a IA permanece desligada; sem o argumento do catálogo, são usados livros fictícios.

diff --git a/README.md b/README.md
@@ -45,7 +45,7 @@ As capturas desta página mostram a aplicação em funcionamento com o **acervo 
 
 ## Como instalar no Windows
 
-A distribuição para usuários será disponibilizada na área [Releases / Versões do GitHub](https://github.com/CaesarKairos/BIBI-Biblioteca-Inteligente/releases). A preparação da versão 1.1.0 permanece em rascunho até a publicação pelos responsáveis; rascunhos não ficam disponíveis para download público.
+A distribuição para usuários será disponibilizada na área [Releases / Versões do GitHub](https://github.com/CaesarKairos/BIBI-Biblioteca-Inteligente/releases). A preparação da versão 1.1.1 permanece em rascunho até a publicação pelos responsáveis; rascunhos não ficam disponíveis para download público.
 
 1. Abra a área de versões e escolha uma versão publicada. Baixe o instalador Windows, quando disponível, ou o pacote portátil em ZIP. Os arquivos **Source code** são destinados ao desenvolvimento.
 2. Execute o instalador e abra **BIBI** pelo Menu Iniciar. No pacote portátil, extraia o ZIP inteiro para uma pasta e abra `BIBI.exe`, mantendo a pasta `_internal` ao lado dele.
@@ -69,6 +69,10 @@ A BIBI funciona sem IA. O bibliotecário pode configurar serviços externos nas 
 A IA auxilia a mediação da leitura, as recomendações literárias e a análise administrativa. As sugestões levam em conta o acervo e os interesses disponíveis, com valorização de autoras brasileiras documentadas, sem deduzir gênero ou nacionalidade pelo nome.
 
 Esses recursos podem depender de internet, chave de API, limites, custos e condições do provedor. A escola deve avaliar quais informações serão enviadas aos serviços configurados. [Entenda a configuração e os limites da IA](docs/INTEGRACAO_IA.md).
+
+![Conversa literária com a BIBI usando integração real com OpenRouter](docs/readme/ia-conversa.png)
+
+Conversa demonstrativa com resposta real de um modelo gratuito via OpenRouter. A seleção de livros por critérios do catálogo também funciona sem geração de texto por IA. As respostas dependem do serviço e devem ser avaliadas por quem realiza a mediação da leitura.
 
 ## Tecnologias utilizadas
 
